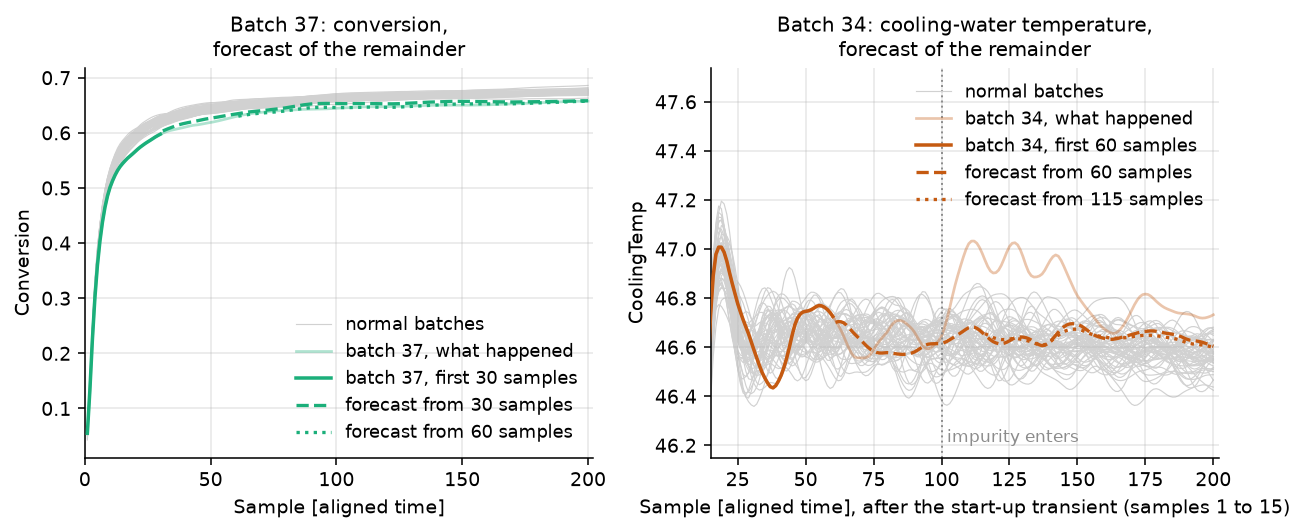
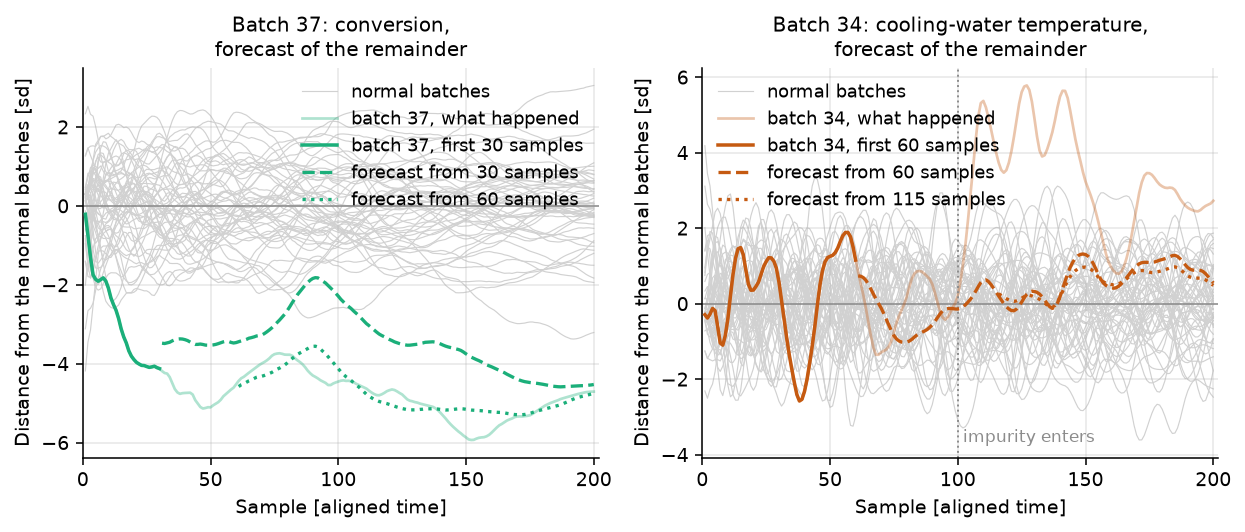
Draw the SBR forecast figure in z form
Both panels now show each tag as a distance from the 51 normal batches at
that sample, in their standard deviations, so the zero line is the average
batch and the forecasts read as departures. The right panel no longer has
to start after the start-up transient.

Claude-Session: https://claude.ai/code/session_01LXthGpHLQFfGubBiKFtGAE

diff --git a/batch/batch-case-sbr-figures.py b/batch/batch-case-sbr-figures.py
@@ -81,7 +81,6 @@ MONITOR_CONF_LEVEL = 0.99
 ALARM_RUN = 3  # consecutive samples above the limit before an alarm counts
 FAULT_SAMPLE = 100  # the impurity enters batch 34 at about this sample
 EWMA_LAMBDA = 0.3  # smoothing of the robust departure chart, the value the book's EWMA chapter uses
-TRANSIENT_END = 15  # the cooling-water temperature settles after this many samples; the forecast panel starts here
 FORECASTS = {FAULT_FROM_START: ("Conversion", [30, 60]), FAULT_PARTWAY: ("CoolingTemp", [60, 115])}
 
 
@@ -341,43 +340,42 @@ def main(out_dir: pathlib.Path, data_url: str | None) -> None:
 
     # -- What the reference model expected the rest of each faulty batch to look like (Wold et al. 2009, Eq. 4):
     # the scores estimated from the samples so far, mapped back through the loadings onto the unobserved cells.
+    # Drawn in the z form of the departure figure: every tag as a distance from the 51 normal batches at that
+    # sample, in their standard deviations, so the average batch is the zero line and a departure reads directly.
+    stack = np.stack([batch.to_numpy() for batch in normal.values()])
+    z_mean, z_sd = stack.mean(axis=0), stack.std(axis=0, ddof=1)
+
+    def z_form(frame: pd.DataFrame) -> pd.DataFrame:
+        return pd.DataFrame((frame.to_numpy() - z_mean) / z_sd, columns=frame.columns, index=frame.index)
+
     fig, axes = plt.subplots(1, 2, figsize=(9.0, 3.9))
     time = np.arange(1, model.n_timesteps_ + 1)
     for ax, (batch_id, (tag, sample_points)) in zip(axes, FORECASTS.items(), strict=True):
         colour = HIGHLIGHT[batch_id]
         for j, batch in enumerate(normal.values()):
-            ax.plot(time, batch[tag].to_numpy(), color=PALE_GREY, lw=0.6, zorder=1, label="normal batches" if j == 0 else None)
-        actual = trajectories[batch_id][tag].to_numpy()
+            ax.plot(time, z_form(batch)[tag].to_numpy(), color=PALE_GREY, lw=0.6, zorder=1, label="normal batches" if j == 0 else None)
+        ax.axhline(0, color=GREY, lw=0.8, zorder=2)
+        actual = z_form(trajectories[batch_id])[tag].to_numpy()
         first = sample_points[0]
         ax.plot(time, actual, color=colour, lw=1.4, alpha=0.35, zorder=2, label=f"batch {batch_id}, what happened")
         ax.plot(time[:first], actual[:first], color=colour, lw=1.8, zorder=3, label=f"batch {batch_id}, first {first} samples")
         for k, style in zip(sample_points, ["--", (0, (1.0, 1.6))], strict=True):
-            forecast = reference.predict_online(trajectories[batch_id], upto_k=k).forecast[tag]
+            forecast = z_form(reference.predict_online(trajectories[batch_id], upto_k=k).forecast)[tag].to_numpy()
             print(
-                f"batch {batch_id} {tag}, mean over the samples after {k}: forecast {forecast.iloc[k:].mean():.4f}, "
-                f"actual {trajectories[batch_id][tag].iloc[k:].mean():.4f}, "
-                f"normal batches {np.mean([batch[tag].iloc[k:].mean() for batch in normal.values()]):.4f}"
+                f"batch {batch_id} {tag}, mean over the samples after {k}: forecast {forecast[k:].mean():.2f} sd, "
+                f"actual {actual[k:].mean():.2f} sd"
             )
-            ax.plot(time[k:], forecast.to_numpy()[k:], color=colour, lw=1.7, ls=style, zorder=4, label=f"forecast from {k} samples")
+            ax.plot(time[k:], forecast[k:], color=colour, lw=1.7, ls=style, zorder=4, label=f"forecast from {k} samples")
         if batch_id == FAULT_PARTWAY:
             ax.axvline(FAULT_SAMPLE, color=GREY, lw=1, ls=":", zorder=2)
-            # Written along the bottom, to the right of the line: the legend fills the upper right of this panel.
             ax.text(FAULT_SAMPLE + 2, 0.03, "impurity enters", transform=ax.get_xaxis_transform(), va="bottom", ha="left", fontsize=8.5, color=GREY)
         ax.set_xlim(0, model.n_timesteps_ + 2)
         ax.set_xlabel("Sample [aligned time]")
-        ax.set_ylabel(tag)
+        ax.set_ylabel("Distance from the normal batches [sd]")
     axes[0].set_title(f"Batch {FAULT_FROM_START}: conversion,\nforecast of the remainder")
-    axes[0].legend(loc="lower right")
-    # The cooling-water temperature swings through 5 degrees in the first 15 samples of every batch; the panel
-    # starts after that transient so the 0.4 degree departure of batch 34 is not squashed by it. The vertical
-    # axis is set from the samples shown (autoscaling would still span the transient), with room for the legend.
-    settled = [batch["CoolingTemp"].iloc[TRANSIENT_END:] for batch in [*normal.values(), trajectories[FAULT_PARTWAY]]]
-    low, high = min(float(s.min()) for s in settled), max(float(s.max()) for s in settled)
-    axes[1].set_xlim(TRANSIENT_END, model.n_timesteps_ + 2)
-    axes[1].set_ylim(low - 0.25 * (high - low), high + 0.65 * (high - low))
-    axes[1].set_xlabel(f"Sample [aligned time], after the start-up transient (samples 1 to {TRANSIENT_END})")
+    axes[0].legend(loc="upper right")
     axes[1].set_title(f"Batch {FAULT_PARTWAY}: cooling-water temperature,\nforecast of the remainder")
-    axes[1].legend(loc="upper right")
+    axes[1].legend(loc="upper left")
     fig.tight_layout()
     save(fig, out_dir, "batch-case-sbr-forecast")
 
